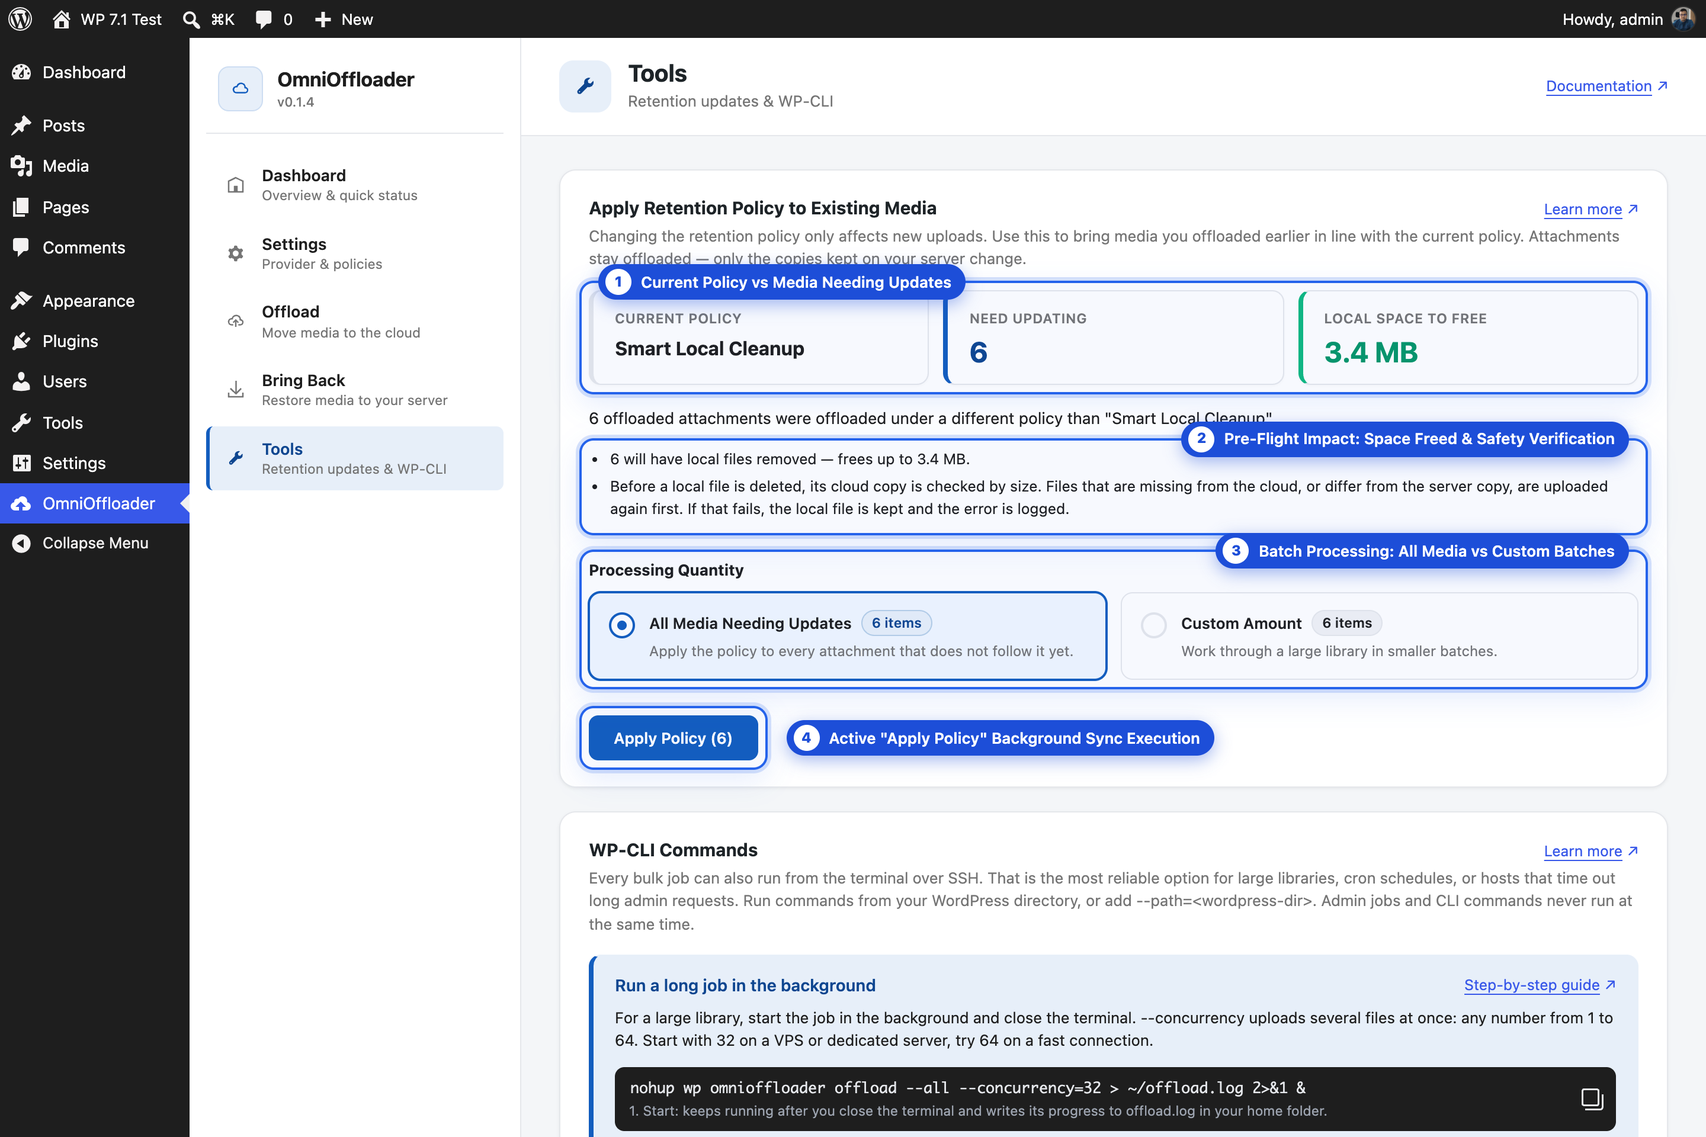
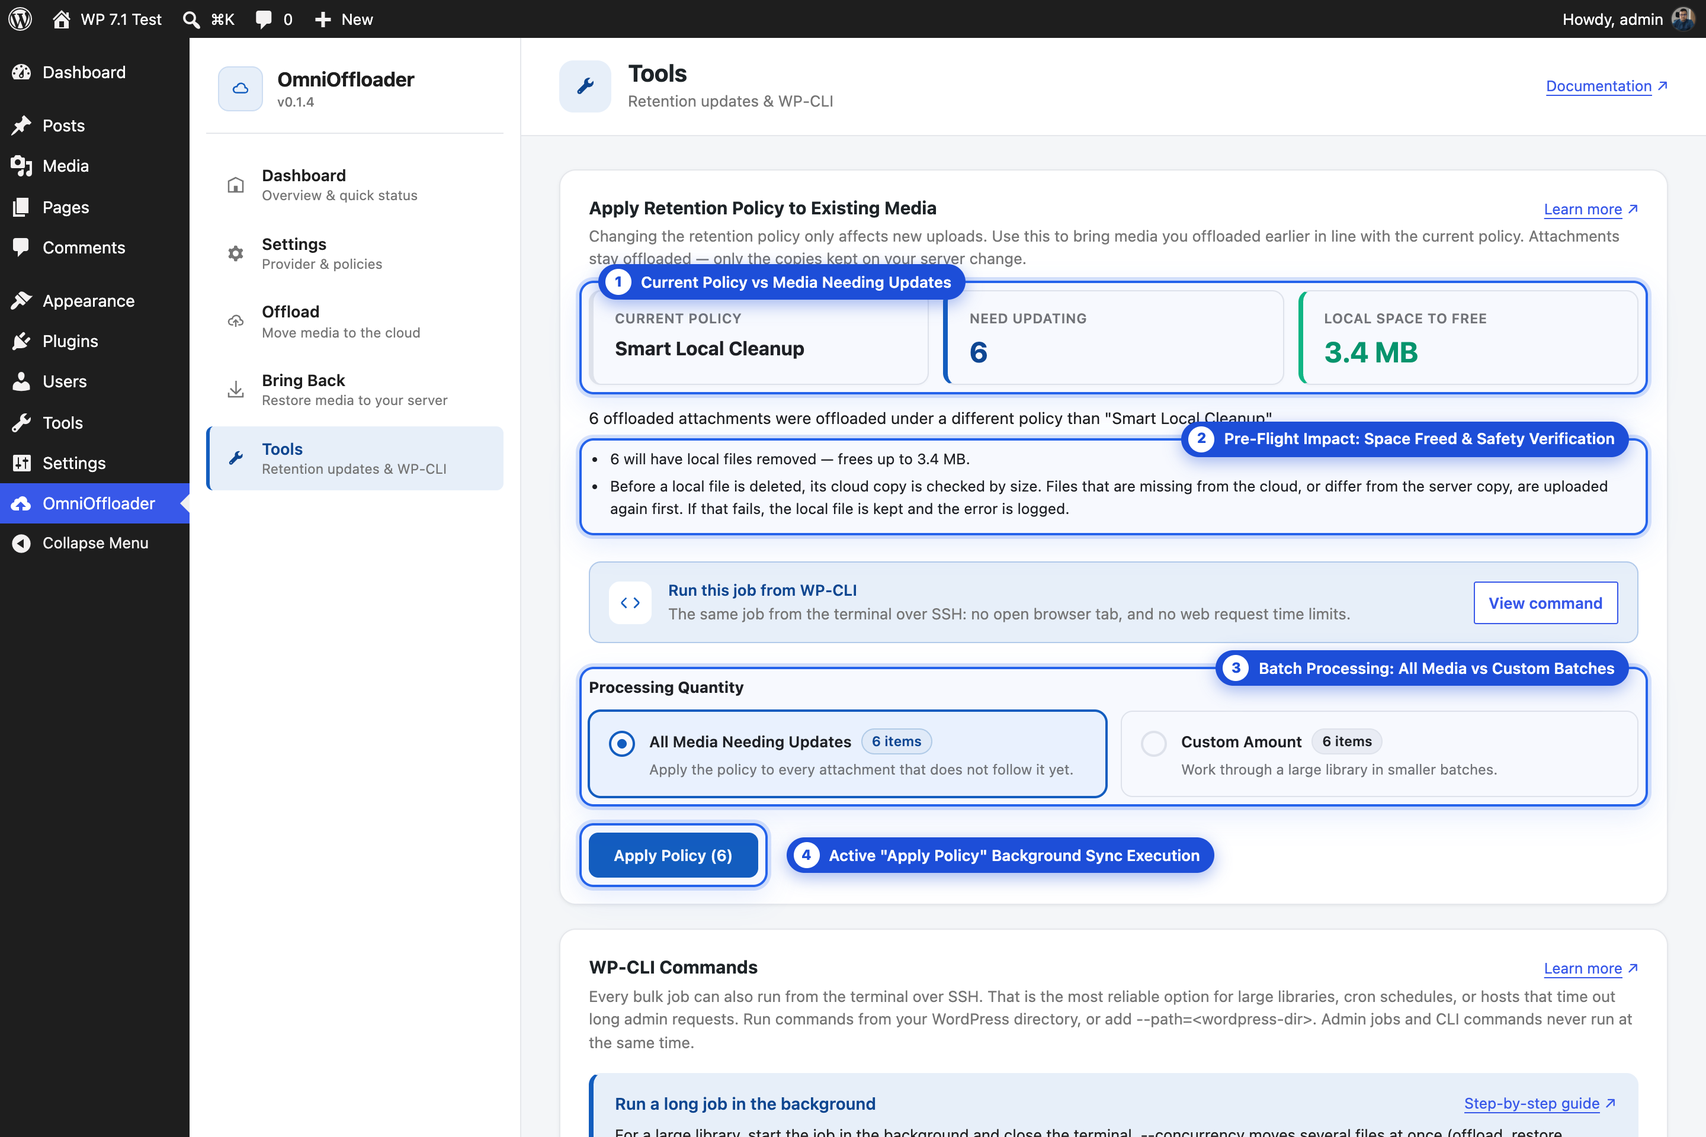
feat(cli): --concurrency on restore and retention; WP-CLI panel on the retention card
restore and retention downloaded at most 10 files at once (Transfer
Speed), while offload and move could go to 64.

- CliJobGuard::apply_concurrency(): one validated --concurrency for
  offload, move, restore and retention (1-64, a typo is an error).
- restore / retention: each attachment's files download that many at
  once through download_files(); "Downloading up to N files at once."
  Capped by an attachment's own file count, and a stricter retention
  policy (verify + delete) gains nothing; the docs say so.
- Tools: Apply Retention Policy gets the "Run this job from WP-CLI"
  panel (jumps to the retention command); the WP-CLI reference lists
  --concurrency for restore and retention with examples.
- Docs: restore (new Speed section), retention, offload, overview,
  long runs, Transfer Speed, Bring Back, retention policies; changelog
  (0.1.4); retaken apply-retention and wp-cli screenshots.

Changed region(s): [[0.3125, 0.4688, 0.9688, 0.8125], [0.3438, 0.8438, 0.9688, 1.0]]

diff --git a/src/components/tools/CliReference.tsx b/src/components/tools/CliReference.tsx
@@ -240,6 +240,14 @@ function getCommands(): CliCommand[] {
 						'omnioffloader'
 					),
 				},
+				{
+					command:
+						'nohup wp omnioffloader restore --all --concurrency=32 > ~/restore.log 2>&1 &',
+					description: __(
+						'The same, downloading up to 32 files at once on a VPS or dedicated server. Helps most with images that have many thumbnail sizes.',
+						'omnioffloader'
+					),
+				},
 			],
 			options: [
 				{
@@ -288,6 +296,13 @@ function getCommands(): CliCommand[] {
 					flag: '--force',
 					description: __(
 						'Run even while an admin bulk job is active.',
+						'omnioffloader'
+					),
+				},
+				{
+					flag: '--concurrency=<number>',
+					description: __(
+						'Files of an attachment downloaded at once, from 1 to 64. An attachment never downloads more files at once than it has, so 16 to 32 covers most themes. Without it, the Transfer Speed setting applies (up to 10).',
 						'omnioffloader'
 					),
 				},
@@ -430,6 +445,14 @@ function getCommands(): CliCommand[] {
 				},
 				{
 					command:
+						'wp omnioffloader retention --policy=0 --concurrency=32',
+					description: __(
+						'The same, downloading up to 32 files at once on a VPS or dedicated server.',
+						'omnioffloader'
+					),
+				},
+				{
+					command:
 						'nohup wp omnioffloader retention --yes > ~/retention.log 2>&1 &',
 					description: __(
 						'Run in the background; --yes is needed because nobody can answer the prompt.',
@@ -477,6 +500,13 @@ function getCommands(): CliCommand[] {
 					flag: '--force',
 					description: __(
 						'Run even while an admin bulk job is active.',
+						'omnioffloader'
+					),
+				},
+				{
+					flag: '--concurrency=<number>',
+					description: __(
+						'Files of an attachment downloaded at once when moving to a looser policy, from 1 to 64. A stricter policy only deletes local files, so it gains nothing from it.',
 						'omnioffloader'
 					),
 				},
@@ -609,7 +639,7 @@ export function CliReference( { onNavigate }: CliReferenceProps ) {
 					</div>
 					<p className="smowp-cli__summary">
 						{ __(
-							'For a large library, start the job in the background and close the terminal. --concurrency uploads several files at once: any number from 1 to 64. Start with 32 on a VPS or dedicated server, try 64 on a fast connection.',
+							'For a large library, start the job in the background and close the terminal. --concurrency moves several files at once (offload, restore, retention and move): any number from 1 to 64. Start with 32 on a VPS or dedicated server, try 64 for an offload on a fast connection.',
 							'omnioffloader'
 						) }
 					</p>

diff --git a/src/components/tools/RetentionSyncCard.tsx b/src/components/tools/RetentionSyncCard.tsx
@@ -7,9 +7,11 @@ import { useRetentionSync } from '../../hooks/useRetentionSync';
 import { RetentionPolicy } from '../../types';
 import { RETENTION_LABELS } from '../../utils/constants';
 import { formatBytes } from '../../utils/formatBytes';
+import { revealSection } from '../../utils/revealSection';
 import { ActivityLog } from '../ui/ActivityLog';
 import { BatchScopeSelector, type ScopeMode } from '../ui/BatchScopeSelector';
 import { Card } from '../ui/Card';
+import { CliHint } from '../ui/CliHint';
 import { CliJobNotice, cliJobTitle } from '../ui/CliJobNotice';
 import { ProgressBar } from '../ui/ProgressBar';
 import { RunAnnouncer } from '../ui/RunAnnouncer';
@@ -217,6 +219,17 @@ export function RetentionSyncCard() {
 							) }
 						</li>
 					</ul>
+
+					<CliHint
+						command="retention"
+						count={ eligible }
+						// The command's section is further down this page.
+						onNavigate={ ( _view, section ) => {
+							if ( section ) {
+								revealSection( section );
+							}
+						} }
+					/>
 
 					{ ! preflight.disk_ok && (
 						<p className="smowp-warning">

diff --git a/includes/Cli/RetentionCommand.php b/includes/Cli/RetentionCommand.php
@@ -95,6 +95,12 @@ class RetentionCommand {
 	 * [--force]
 	 * : Run even when a bulk job started from the admin screen is active.
 	 *
+	 * [--concurrency=<number>]
+	 * : Files of an attachment downloaded at the same time when moving to a
+	 * looser policy, 1 to 64, instead of the Transfer Speed setting (at most
+	 * 10). A stricter policy only checks and deletes files, so it gains
+	 * nothing from it.
+	 *
 	 * [--format=<format>]
 	 * : Output format for the --dry-run table.
 	 * ---
@@ -112,6 +118,7 @@ class RetentionCommand {
 	 *     wp omnioffloader retention --policy=1 --limit=500
 	 *     wp omnioffloader retention --policy=2 --yes
 	 *     wp omnioffloader retention --policy=0
+	 *     wp omnioffloader retention --policy=0 --concurrency=32
 	 *     nohup wp omnioffloader retention --yes > ~/retention.log 2>&1 &
 	 *
 	 * @param string[]              $args       Positional args (unused).
@@ -132,6 +139,8 @@ class RetentionCommand {
 		$policy   = isset( $assoc_args['policy'] ) ? Plugin::sanitize_retention_policy( $assoc_args['policy'] ) : $saved;
 		$is_dry   = isset( $assoc_args['dry-run'] );
 		$queue    = $plugin->get_bulk_retention();
+
+		$this->apply_concurrency( $assoc_args );
 
 		// Serving from the server needs the files there: deleting them would
 		// break every page that loads them until the attachment is marked.
@@ -207,6 +216,11 @@ class RetentionCommand {
 		$reason    = '';
 		$capped    = false;
 		$quota_hit = false;
+
+		// Only attachments moving to a looser policy download anything.
+		if ( Helpers::transfer_concurrency_override() > 0 && count( $ids ) > $to_clean ) {
+			WP_CLI::log( sprintf( 'Downloading up to %d files at once.', Helpers::transfer_concurrency_override() ) );
+		}
 
 		foreach ( $ids as $id ) {
 			if ( $applier->apply( $id, $policy ) ) {

diff --git a/includes/Cli/RestoreCommand.php b/includes/Cli/RestoreCommand.php
@@ -70,6 +70,11 @@ class RestoreCommand {
 	 * [--force]
 	 * : Run even when a bulk restore started from the admin screen is active.
 	 *
+	 * [--concurrency=<number>]
+	 * : Files of an attachment downloaded at the same time, 1 to 64, instead
+	 * of the Transfer Speed setting (at most 10). For a VPS or dedicated
+	 * server; it helps most with images that have many thumbnail sizes.
+	 *
 	 * ## EXAMPLES
 	 *
 	 *     wp omnioffloader restore --all
@@ -77,6 +82,7 @@ class RestoreCommand {
 	 *     wp omnioffloader restore --all --delete-cloud --yes
 	 *     wp omnioffloader restore --all --dry-run
 	 *     nohup wp omnioffloader restore --all > ~/restore.log 2>&1 &
+	 *     nohup wp omnioffloader restore --all --concurrency=32 > ~/restore.log 2>&1 &
 	 *
 	 * @param string[]              $args       Positional args (unused).
 	 * @param array<string, string> $assoc_args Named args.
@@ -88,6 +94,8 @@ class RestoreCommand {
 		$plugin = Plugin::get_instance();
 		$queue  = $plugin->get_bulk_restore();
 		$is_dry = isset( $assoc_args['dry-run'] );
+
+		$this->apply_concurrency( $assoc_args );
 
 		// Restoring the same attachment from two processes races over the same
 		// destination files; the admin queue owns them until it is done.
@@ -166,6 +174,10 @@ class RestoreCommand {
 		$no_room   = 0;
 		$quota_hit = false;
 		$stopped   = false;
+
+		if ( Helpers::transfer_concurrency_override() > 0 ) {
+			WP_CLI::log( sprintf( 'Downloading up to %d files at once.', Helpers::transfer_concurrency_override() ) );
+		}
 
 		foreach ( $ids as $id ) {
 			// Every later download would fail the same way; stop with the

diff --git a/includes/Cli/CliJobGuard.php b/includes/Cli/CliJobGuard.php
@@ -7,6 +7,7 @@
 
 namespace OmniOffloader\Cli;
 
+use OmniOffloader\Core\Helpers;
 use OmniOffloader\Core\Plugin;
 use OmniOffloader\Services\AbstractBulkProcessor;
 use OmniOffloader\Services\AttachmentUploader;
@@ -121,6 +122,34 @@ trait CliJobGuard {
 		if ( '' === $raw || ! ctype_digit( $raw ) || (int) $raw < 1 ) {
 			WP_CLI::error( sprintf( '--limit must be a positive whole number, got "%s".', $raw ) );
 		}
+
+		return (int) $raw;
+	}
+
+	/**
+	 * Apply --concurrency for this run: files moved at once, instead of the
+	 * Transfer Speed setting.
+	 *
+	 * A typo must not silently mean "the setting" or "64", so anything but a
+	 * whole number from 1 to MAX_CLI_CONCURRENCY is an error.
+	 *
+	 * @since 0.1.4 Shared by offload, move, restore and retention.
+	 *
+	 * @param array<string, string> $assoc_args Named args.
+	 * @return int The value, 0 when --concurrency was not given.
+	 */
+	private function apply_concurrency( array $assoc_args ) {
+		if ( ! isset( $assoc_args['concurrency'] ) ) {
+			return 0;
+		}
+
+		$raw = trim( (string) $assoc_args['concurrency'] );
+
+		if ( ! ctype_digit( $raw ) || (int) $raw < 1 || (int) $raw > Helpers::MAX_CLI_CONCURRENCY ) {
+			WP_CLI::error( sprintf( '--concurrency must be a whole number from 1 to %d.', Helpers::MAX_CLI_CONCURRENCY ) );
+		}
+
+		Helpers::set_transfer_concurrency_override( (int) $raw );
 
 		return (int) $raw;
 	}

diff --git a/includes/Cli/MoveCommand.php b/includes/Cli/MoveCommand.php
@@ -104,17 +104,8 @@ class MoveCommand {
 			WP_CLI::error( 'No cloud provider is configured, so there is nowhere to move media to.' );
 		}
 
-		if ( isset( $assoc_args['concurrency'] ) ) {
-			$concurrency = (string) $assoc_args['concurrency'];
-
-			// A typo must not silently mean "the setting" or "64".
-			if ( ! ctype_digit( $concurrency ) || (int) $concurrency < 1 || (int) $concurrency > Helpers::MAX_CLI_CONCURRENCY ) {
-				WP_CLI::error( sprintf( '--concurrency must be a whole number from 1 to %d.', Helpers::MAX_CLI_CONCURRENCY ) );
-			}
-
-			// Covers both halves of a move: the download and the new upload.
-			Helpers::set_transfer_concurrency_override( (int) $concurrency );
-		}
+		// Covers both halves of a move: the download and the new upload.
+		$this->apply_concurrency( $assoc_args );
 
 		if ( ! $is_dry ) {
 			FolderClaim::refresh();

diff --git a/includes/Cli/OffloadCommand.php b/includes/Cli/OffloadCommand.php
@@ -93,16 +93,7 @@ class OffloadCommand {
 		$queue  = $plugin->get_bulk_offload();
 		$is_dry = isset( $assoc_args['dry-run'] );
 
-		if ( isset( $assoc_args['concurrency'] ) ) {
-			$concurrency = (string) $assoc_args['concurrency'];
-
-			// A typo must not silently mean "the setting" or "64".
-			if ( ! ctype_digit( $concurrency ) || (int) $concurrency < 1 || (int) $concurrency > Helpers::MAX_CLI_CONCURRENCY ) {
-				WP_CLI::error( sprintf( '--concurrency must be a whole number from 1 to %d.', Helpers::MAX_CLI_CONCURRENCY ) );
-			}
-
-			Helpers::set_transfer_concurrency_override( (int) $concurrency );
-		}
+		$this->apply_concurrency( $assoc_args );
 
 		// The admin bulk queue and this command would otherwise offload the
 		// same attachments at once: with a cleanup retention policy one side

diff --git a/includes/Core/Helpers.php b/includes/Core/Helpers.php
@@ -33,8 +33,8 @@ class Helpers {
 	private static $stats_flush_pending = false;
 
 	/**
-	 * Files in flight at once for this process, set by `wp omnioffloader
-	 * offload --concurrency`; 0 follows the Transfer Speed setting.
+	 * Files in flight at once for this process, set by WP-CLI
+	 * `--concurrency`; 0 follows the Transfer Speed setting.
 	 *
 	 * @var int<0, 64>
 	 */
@@ -554,7 +554,8 @@ class Helpers {
 
 	/**
 	 * Move this many files at once for the rest of this process, ignoring
-	 * the Transfer Speed setting. WP-CLI only (`offload --concurrency`).
+	 * the Transfer Speed setting. WP-CLI only: `--concurrency` on offload,
+	 * move, restore and retention.
 	 *
 	 * @since 0.1.4
 	 *

diff --git a/includes/Traits/OptionsHelper.php b/includes/Traits/OptionsHelper.php
@@ -164,8 +164,8 @@ trait OptionsHelper {
 	 * @return int<1, 64> Between 1 and 10, or up to 64 with WP-CLI --concurrency.
 	 */
 	public static function files_at_once() {
-		// `wp omnioffloader offload --concurrency`: an explicit choice for
-		// this run, so it wins over the setting and the filter.
+		// WP-CLI `--concurrency`: an explicit choice for this run, so it
+		// wins over the setting and the filter.
 		$override = Helpers::transfer_concurrency_override();
 
 		if ( $override > 0 ) {

diff --git a/CLAUDE.md b/CLAUDE.md
@@ -128,7 +128,7 @@ Queue state statuses: `idle` · `running` · `done` · `cancelled` · `failed`.
 
 That's it. `credential_fields()` is served as JSON to the React app, which renders the form generically — **zero JS changes per provider**.
 
-`AbstractS3Provider` handles the rest (plus the optional `list_object_sizes()` that `RetentionApplier` uses to verify an attachment's files in one request): `upload_file()` switches to `MultipartUploader` above `MULTIPART_THRESHOLD` (64 MB, filter `omnioffloader_multipart_threshold`) and aborts the multipart upload on failure; the optional batch methods `upload_files()`, `download_files()`, `objects_exist()` and `copy_objects()` (server-side CopyObject inside the bucket, guarded like uploads; `AttachmentMover` uses it for same-bucket moves and falls back to Bring Back + offload) (all `method_exists`-checked by callers, which fall back to the single-file methods) run through one `Aws\CommandPool` at `OptionsHelper::files_at_once()` (setting `transfer_speed` low/balanced/fast → 1/3/6, custom → `transfer_concurrency`, filter `omnioffloader_transfer_concurrency`, clamped to 10; CLI `offload --concurrency` sets `Helpers::set_transfer_concurrency_override()` up to 64, which wins over both, `batch_size()` grows to one attachment per 4 slots ≤16, multipart parts stay ≤ `MAX_PART_CONCURRENCY` 10) — one PHP process, never extra workers. `AttachmentUploader::upload_many()` pools several attachments (`batch_size()`: 3, or 1 on Low) and confirms their main keys together; `upload()` is `upload_many()` of one. `AttachmentRestorer` checks existing local copies with one `remote_sizes()` listing per attachment and downloads the rest through `download_files()`; providers build their client through `client_config()`, which sets `request_checksum_calculation => when_required`; every call carries `connect_timeout`; ACL is omitted unless `omnioffloader_object_acl` returns one (R2 rejects the header, so never add it unconditionally).
+`AbstractS3Provider` handles the rest (plus the optional `list_object_sizes()` that `RetentionApplier` uses to verify an attachment's files in one request): `upload_file()` switches to `MultipartUploader` above `MULTIPART_THRESHOLD` (64 MB, filter `omnioffloader_multipart_threshold`) and aborts the multipart upload on failure; the optional batch methods `upload_files()`, `download_files()`, `objects_exist()` and `copy_objects()` (server-side CopyObject inside the bucket, guarded like uploads; `AttachmentMover` uses it for same-bucket moves and falls back to Bring Back + offload) (all `method_exists`-checked by callers, which fall back to the single-file methods) run through one `Aws\CommandPool` at `OptionsHelper::files_at_once()` (setting `transfer_speed` low/balanced/fast → 1/3/6, custom → `transfer_concurrency`, filter `omnioffloader_transfer_concurrency`, clamped to 10; CLI `--concurrency` (offload, move, restore, retention — `CliJobGuard::apply_concurrency()`) sets `Helpers::set_transfer_concurrency_override()` up to 64, which wins over both, `batch_size()` grows to one attachment per 4 slots ≤16, multipart parts stay ≤ `MAX_PART_CONCURRENCY` 10) — one PHP process, never extra workers. `AttachmentUploader::upload_many()` pools several attachments (`batch_size()`: 3, or 1 on Low) and confirms their main keys together; `upload()` is `upload_many()` of one. `AttachmentRestorer` checks existing local copies with one `remote_sizes()` listing per attachment and downloads the rest through `download_files()`; providers build their client through `client_config()`, which sets `request_checksum_calculation => when_required`; every call carries `connect_timeout`; ACL is omitted unless `omnioffloader_object_acl` returns one (R2 rejects the header, so never add it unconditionally).
 
 ### Frontend (`src/` — TypeScript React SPA)
 

diff --git a/docs/src/content/docs/wp-cli/retention.md b/docs/src/content/docs/wp-cli/retention.md
@@ -18,7 +18,7 @@ The attachments stay offloaded either way. The admin screen that does the same j
 ## Synopsis
 
 ```bash
-wp omnioffloader retention [--policy=<policy>] [--ids=<ids>] [--limit=<number>] [--dry-run] [--yes] [--force] [--format=<format>]
+wp omnioffloader retention [--policy=<policy>] [--ids=<ids>] [--limit=<number>] [--dry-run] [--yes] [--force] [--concurrency=<number>] [--format=<format>]
 ```
 
 ## Options
@@ -31,6 +31,7 @@ wp omnioffloader retention [--policy=<policy>] [--ids=<ids>] [--limit=<number>] 
 | `--dry-run` | List what would change without deleting or downloading anything. |
 | `--yes` | Skip the confirmation prompt before local files are deleted. |
 | `--force` | Run even when a bulk job started from the admin screen is active. |
+| `--concurrency=<number>` | Files of an attachment downloaded at the same time when moving to a looser policy, 1 to 64, instead of the [Transfer Speed](/features/transfer-speed/) setting (at most 10). A stricter policy only checks and deletes local files, so it gains nothing from it. |
 | `--format=<format>` | Output format for the `--dry-run` table: `table` (default), `json` or `csv`. |
 
 ### Policy values
@@ -71,6 +72,12 @@ Download local copies of everything again:
 
 ```bash
 wp omnioffloader retention --policy=0
+```
+
+The same, downloading up to 32 files at once (a VPS or dedicated server):
+
+```bash
+wp omnioffloader retention --policy=0 --concurrency=32
 ```
 
 Apply the saved policy in the background, keep it running after you close the terminal, and write its progress to a log file (see [Long runs and log files](/wp-cli/long-runs/)). Add `--yes`: when the policy deletes local files the command asks first, and a background job can't answer:
@@ -125,6 +132,7 @@ If some attachments failed, the command prints a warning and exits with code `1`
 ## Notes
 
 - **A different policy than Settings:** when `--policy` differs from the saved setting, the command warns you. New uploads keep following the setting, so update it too if the change should be permanent.
+- **Speed:** a stricter policy is quick: one listing request per attachment, then local deletes. A looser policy downloads each attachment's files side by side, following the [Transfer Speed](/features/transfer-speed/) setting or `--concurrency`. As with [`restore`](/wp-cli/restore/#speed), an attachment never downloads more files at once than it has.
 - **Size check:** a local file whose cloud copy has a different size is not deleted. It is uploaded again and checked (for example after an image optimizer shrank your thumbnails).
 - **Excluding attachments:** use the [`omnioffloader_should_apply_retention`](/developers/hooks/#omnioffloader_should_apply_retention) filter to keep specific attachments' local files, such as downloadable products or PDFs another plugin reads from disk.
 - **Checking what needs updating:** `wp omnioffloader status` tells you how many offloaded attachments follow an older policy.

diff --git a/docs/src/content/docs/wp-cli/restore.md b/docs/src/content/docs/wp-cli/restore.md
@@ -16,7 +16,7 @@ The admin screen that does the same job is **OmniOffloader → Bring Back**. See
 ## Synopsis
 
 ```bash
-wp omnioffloader restore [--all] [--ids=<ids>] [--limit=<number>] [--delete-cloud] [--yes] [--dry-run] [--force]
+wp omnioffloader restore [--all] [--ids=<ids>] [--limit=<number>] [--delete-cloud] [--yes] [--dry-run] [--force] [--concurrency=<number>]
 ```
 
 ## Options
@@ -30,6 +30,7 @@ wp omnioffloader restore [--all] [--ids=<ids>] [--limit=<number>] [--delete-clou
 | `--yes` | Answer yes to the `--delete-cloud` confirmation prompt. |
 | `--dry-run` | List what would be restored without downloading anything. |
 | `--force` | Run even when a bulk job started from the admin screen is active. |
+| `--concurrency=<number>` | Files of an attachment downloaded at the same time, 1 to 64, instead of the [Transfer Speed](/features/transfer-speed/) setting (at most 10). For a VPS or dedicated server. See [Speed](#speed). |
 
 You must pass either `--all` or `--ids`, but not both.
 
@@ -71,11 +72,24 @@ Restore everything in the background, keep it running after you close the termin
 nohup wp omnioffloader restore --all > ~/restore.log 2>&1 &
 ```
 
+The same with up to 32 files downloaded at once, on a VPS or dedicated server:
+
+```bash
+nohup wp omnioffloader restore --all --concurrency=32 > ~/restore.log 2>&1 &
+```
+
 With `--delete-cloud` in the background, add `--yes`: nobody can answer the question, so without it the command stops and asks for it.
 
 ```bash
 nohup wp omnioffloader restore --all --delete-cloud --yes > ~/restore.log 2>&1 &
 ```
+
+## Speed
+
+Bring Back works through one attachment at a time and downloads that attachment's files (the original and every thumbnail size) side by side. How many at once follows the [Transfer Speed](/features/transfer-speed/) setting, or `--concurrency` for this run.
+
+- **When `--concurrency` helps:** images with many thumbnail sizes, on a server with good bandwidth. With **Balanced** (3 at once), an image with 15 files downloads in five rounds; with `--concurrency=16` or more, in one.
+- **Its limit:** an attachment never downloads more files at once than it has, so going above the number of sizes your theme creates gains nothing. It can't make one large file or a saturated connection faster. `--concurrency=16` is usually enough; `32` does no harm.
 
 ## Deleting cloud copies
 
